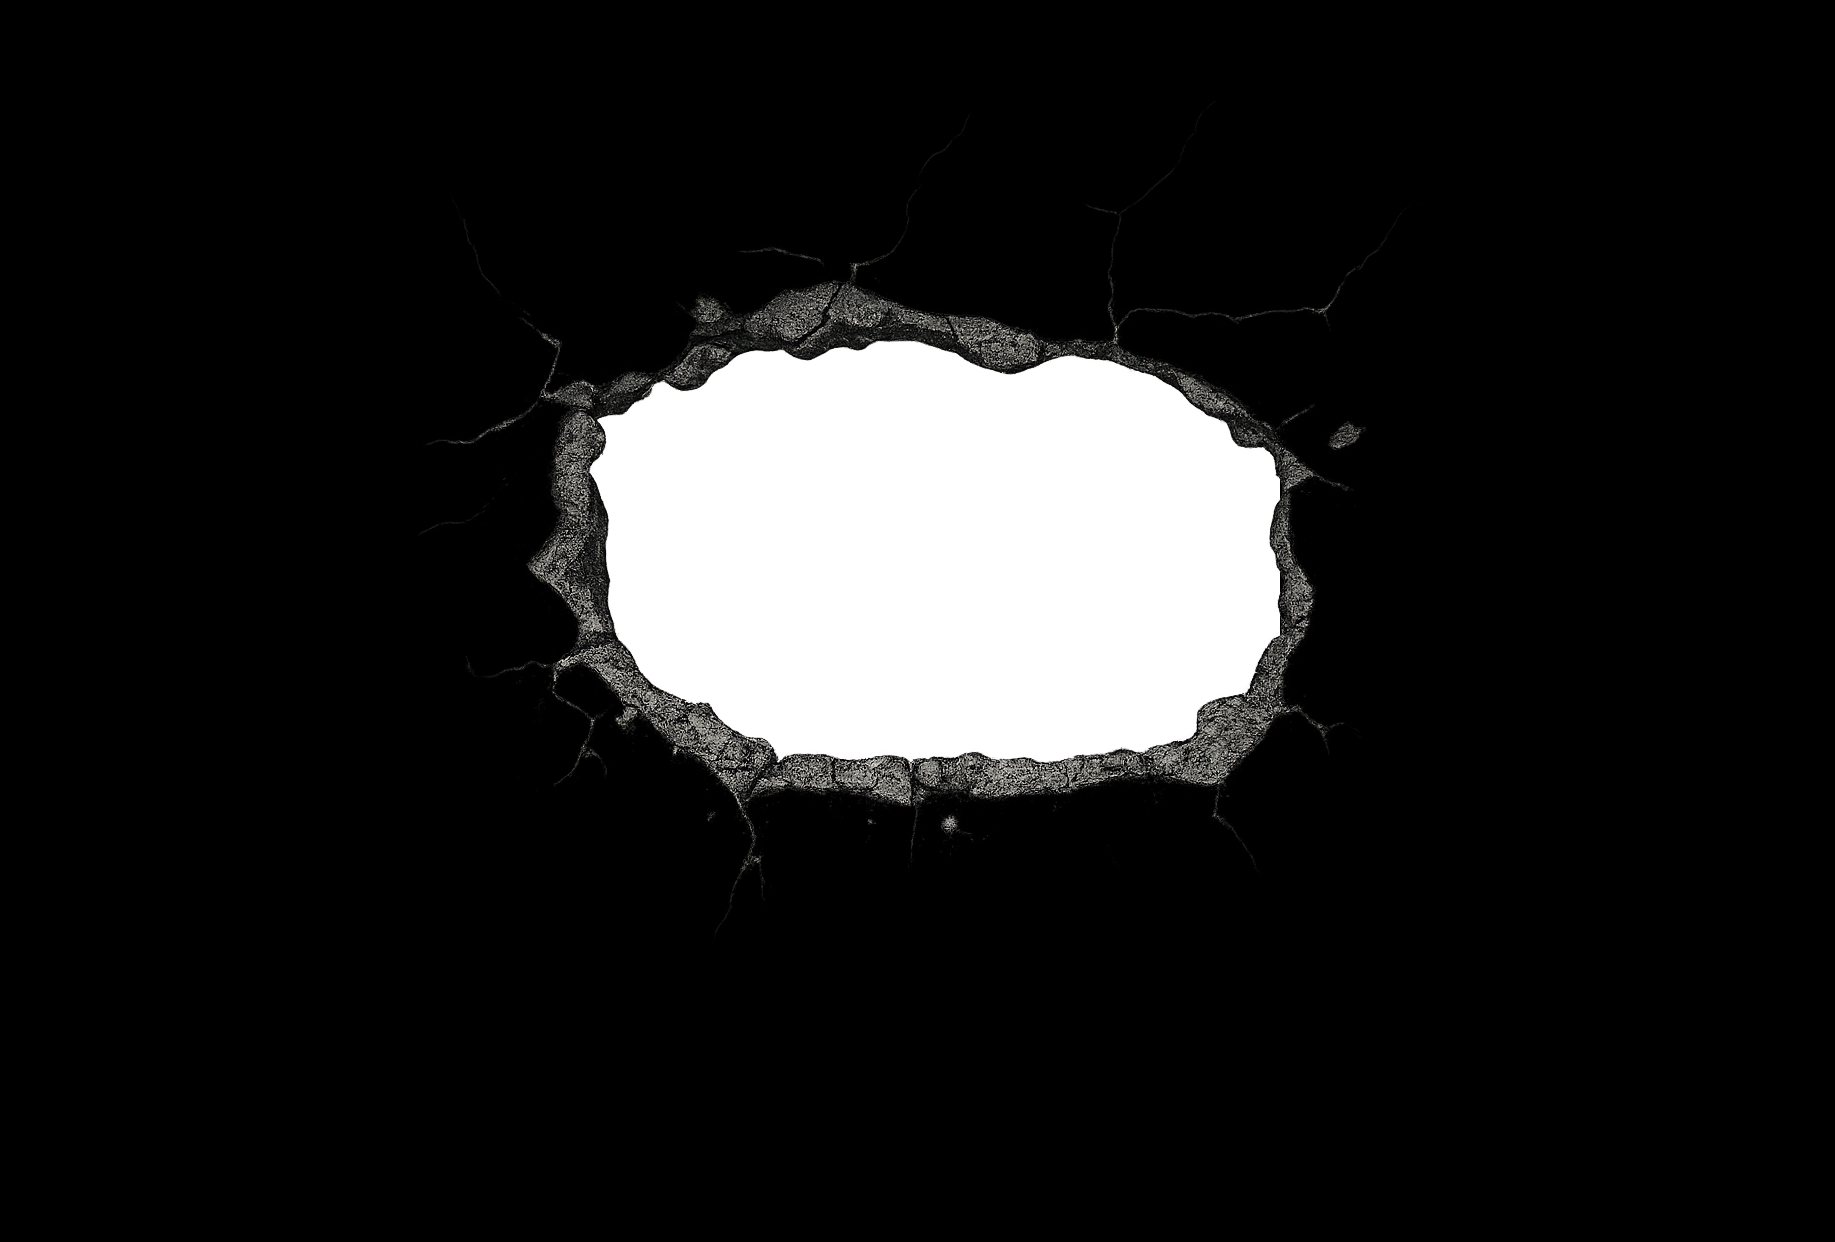
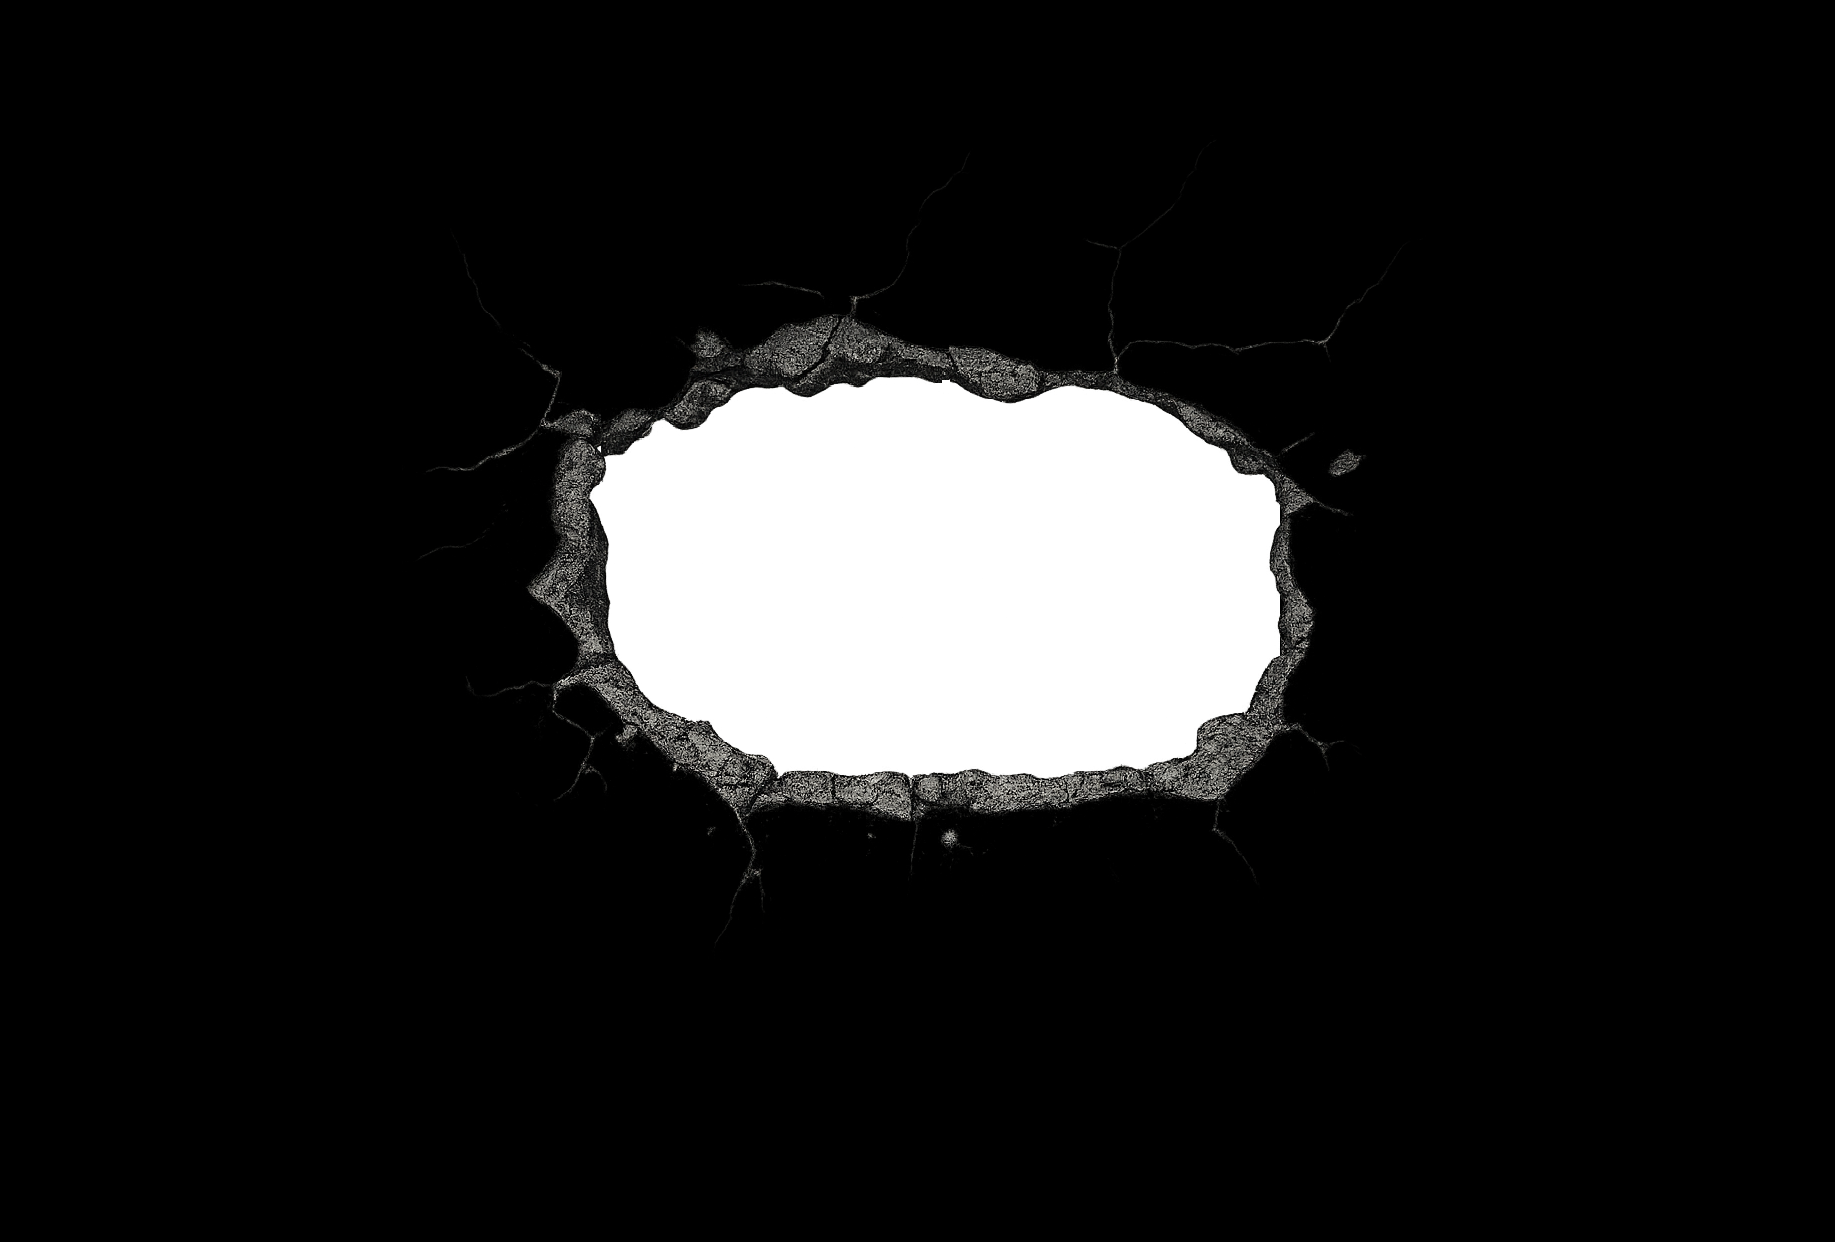
style: video iets lager op desktop

Changed region(s): [[0.2485, 0.2142, 0.7455, 0.7037]]

diff --git a/script.js b/script.js
@@ -864,25 +864,20 @@ ensureThree(function initGreenSmoke() {
 
 	const optionsContainer = document.querySelector('.options');
 
-	// Keep reference to the default active option (as provided in HTML)
 	const defaultActive = document.querySelector('.option.active');
 
-	// media query to decide mobile vs desktop behavior (match CSS breakpoint)
 	const mq = window.matchMedia('(max-width: 900px)');
 	let mobileMode = mq.matches || window.innerWidth <= 900;
 
 	function setMobileDefaults() {
-		// Small screen: ensure all options start closed and container is not in single-open mode
 		options.forEach(o => o.classList.remove('active'));
 		if (optionsContainer) optionsContainer.classList.remove('single-open');
 	}
 
 	function restoreDesktopDefaults() {
-		// Large screen: restore default active option if none is active
 		const anyActive = document.querySelector('.option.active');
 		if (!anyActive && defaultActive) {
 			defaultActive.classList.add('active');
-			// load embeds for the restored active card
 			loadEmbedsInOption(defaultActive);
 		}
 	}

diff --git a/index.html b/index.html
@@ -45,7 +45,7 @@
 	<section id="home" class="section home-bg">
 		<div class="video-bg">
 			<div class="video-container">
-				<iframe id="youtube-video" data-src="https://www.youtube.com/embed/rc40cT5XKuI?autoplay=1&mute=1&loop=1&playlist=rc40cT5XKuI&controls=0&rel=0&modestbranding=1&playsinline=1" frameborder="0" allow="autoplay; encrypted-media" allowfullscreen title="Background Video" aria-hidden="true"></iframe>
+				<iframe id="youtube-video" data-src="https://www.youtube.com/embed/rc40cT5XKuI?autoplay=1&mute=1&loop=1&playlist=rc40cT5XKuI&controls=0&rel=0&modestbranding=1&playsinline=1&iv_load_policy=3&disablekb=1&fs=0" frameborder="0" allow="autoplay; encrypted-media" allowfullscreen title="Background Video" aria-hidden="true"></iframe>
 			</div>
 		</div>
 		<div class="home-overlay">

diff --git a/style.css b/style.css
@@ -85,7 +85,7 @@
 }
 .video-container {
 	position: absolute;
-	top: 19vh;
+	top: 21vh;
 	left: 50%;
 	transform: translateX(-50%);
 	width: 44vw;
@@ -1688,7 +1688,7 @@ padding: 0 1rem;
 	/* Subtler outer glow that follows the image alpha mask (cutout figure) with a warm sunlight color */
 	/* Changed from a brownish tint to a golden sunlight hue */
 	/* test: use site green for glow so we can compare visuals with existing site color */
-	filter: drop-shadow(0 4px 8px rgba(0,0,0,0.45)) drop-shadow(0 0 6px rgba(2, 248, 64, 0.78));
+	filter: drop-shadow(0 6px 10px rgba(0,0,0,0.45)) drop-shadow(0 0 8px rgba(0,155,39,0.78));
 }
 
 /* also ensure the anchor wrapper itself doesn't show a rectangular shadow or background when hovered */
